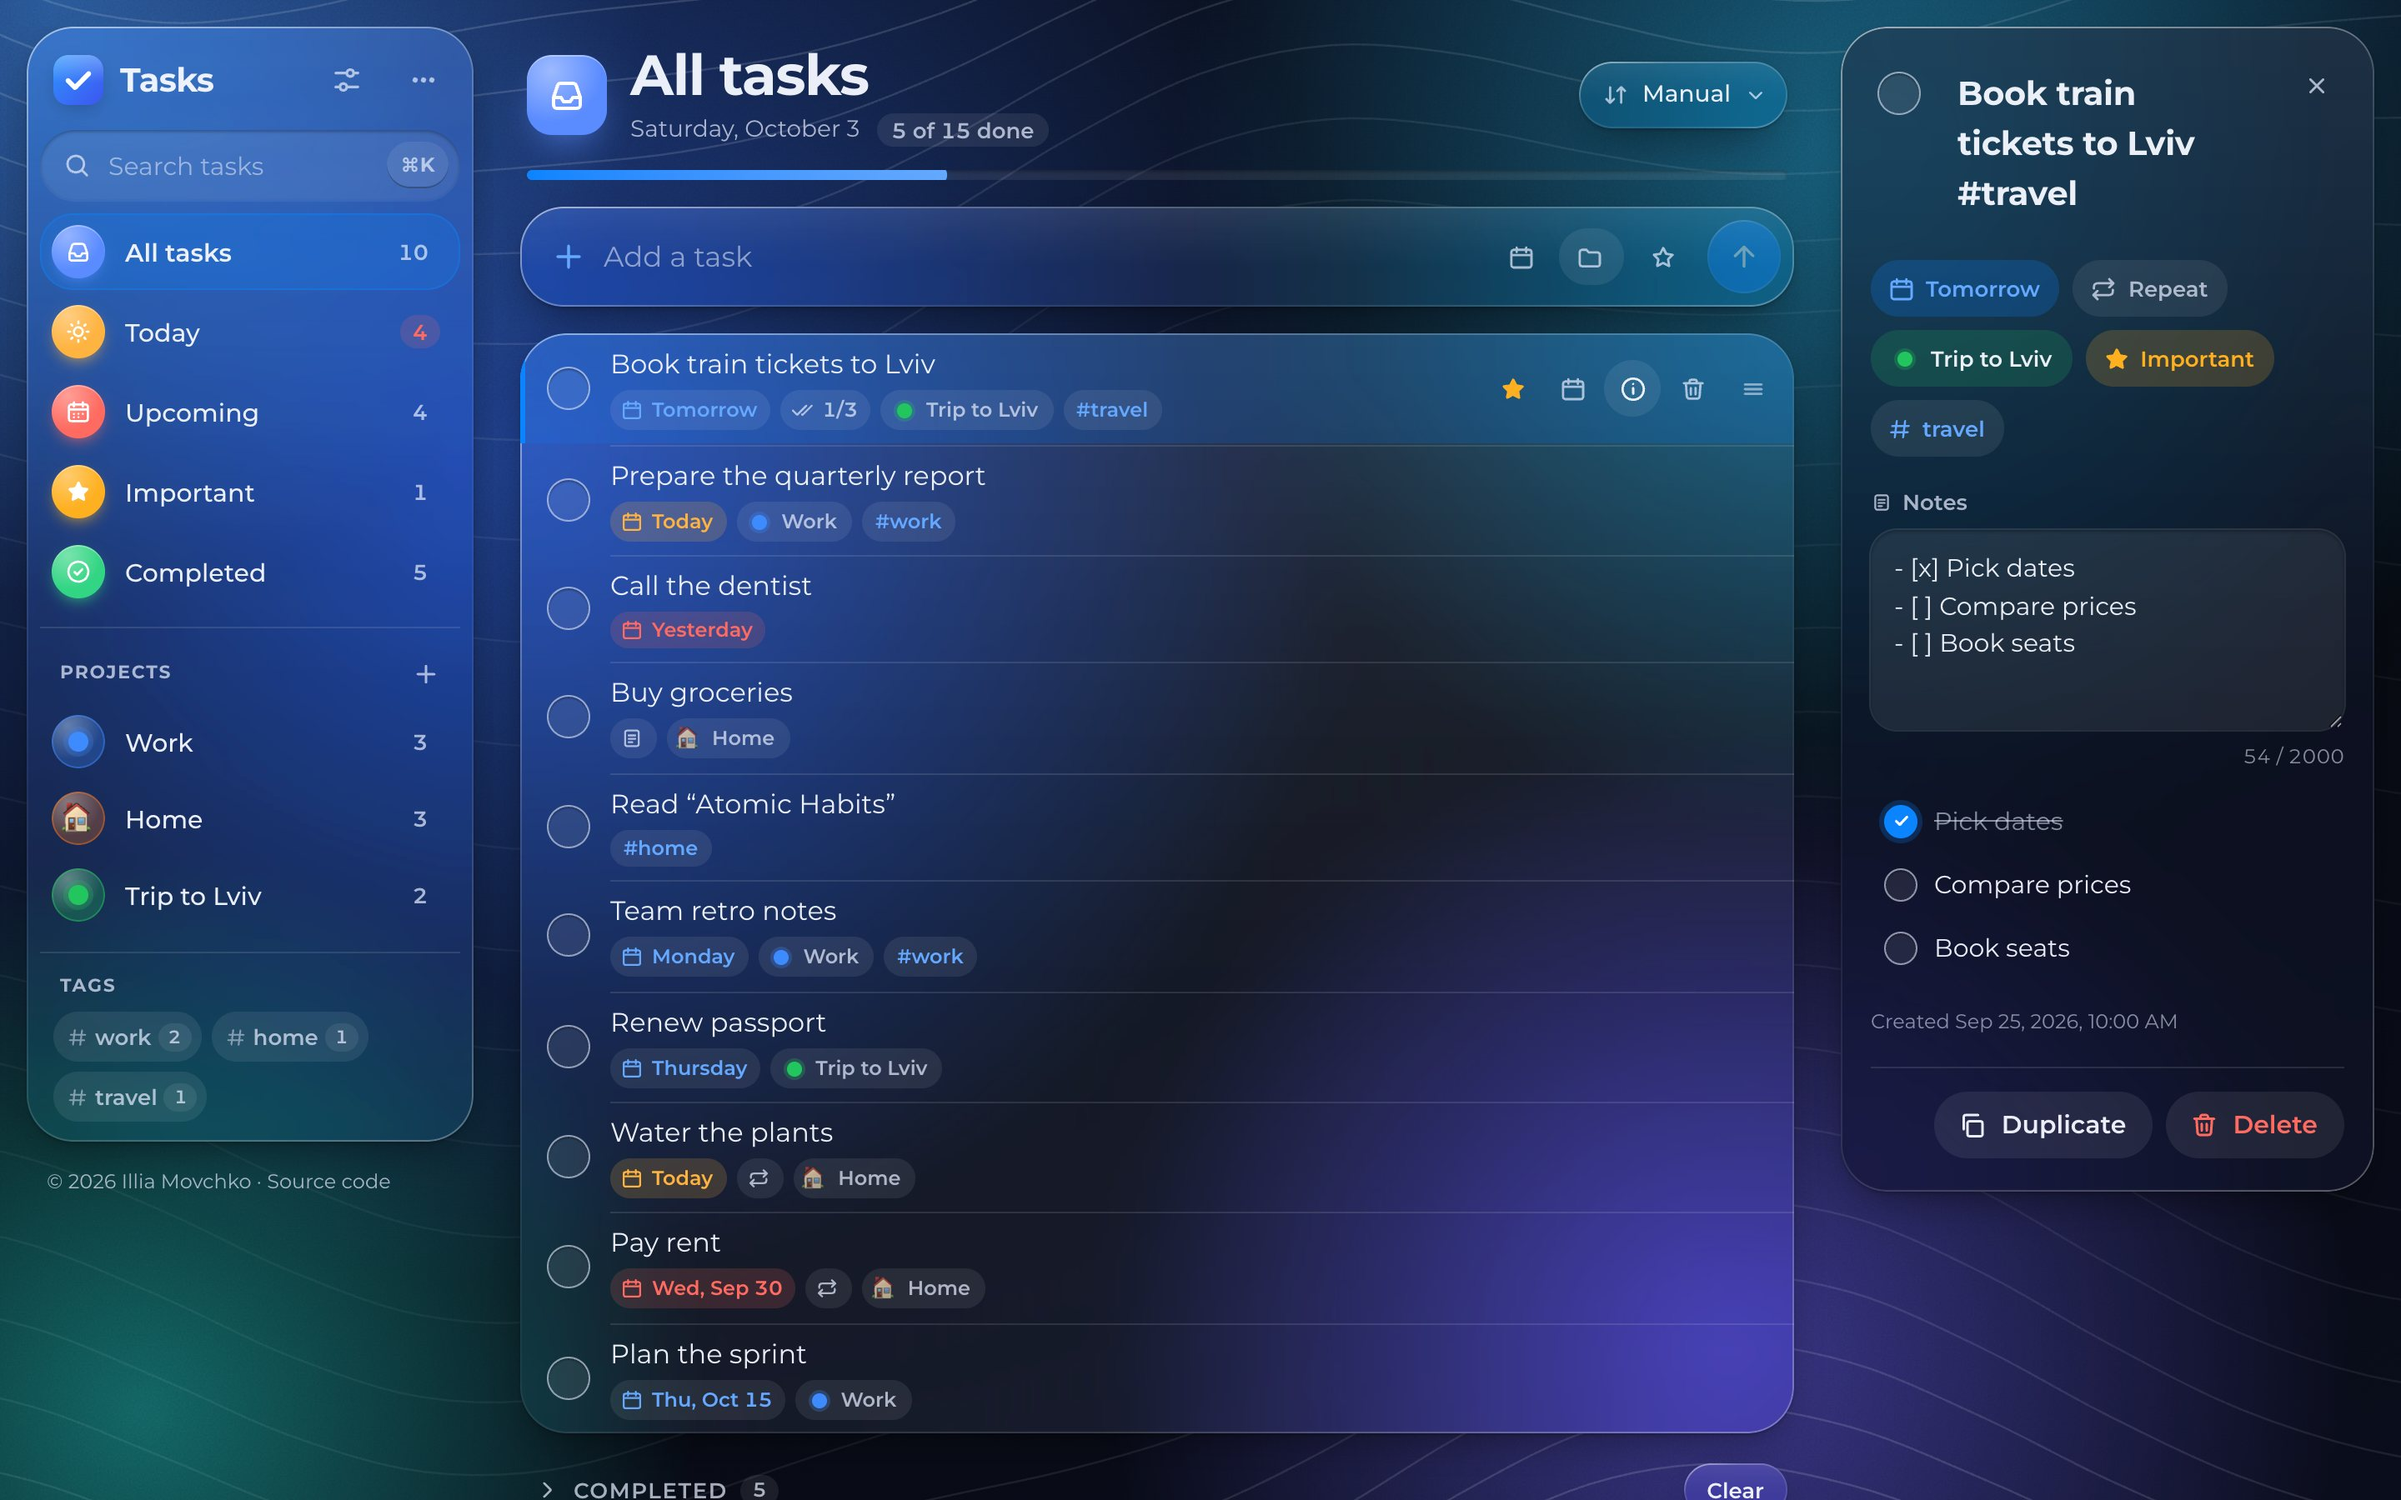
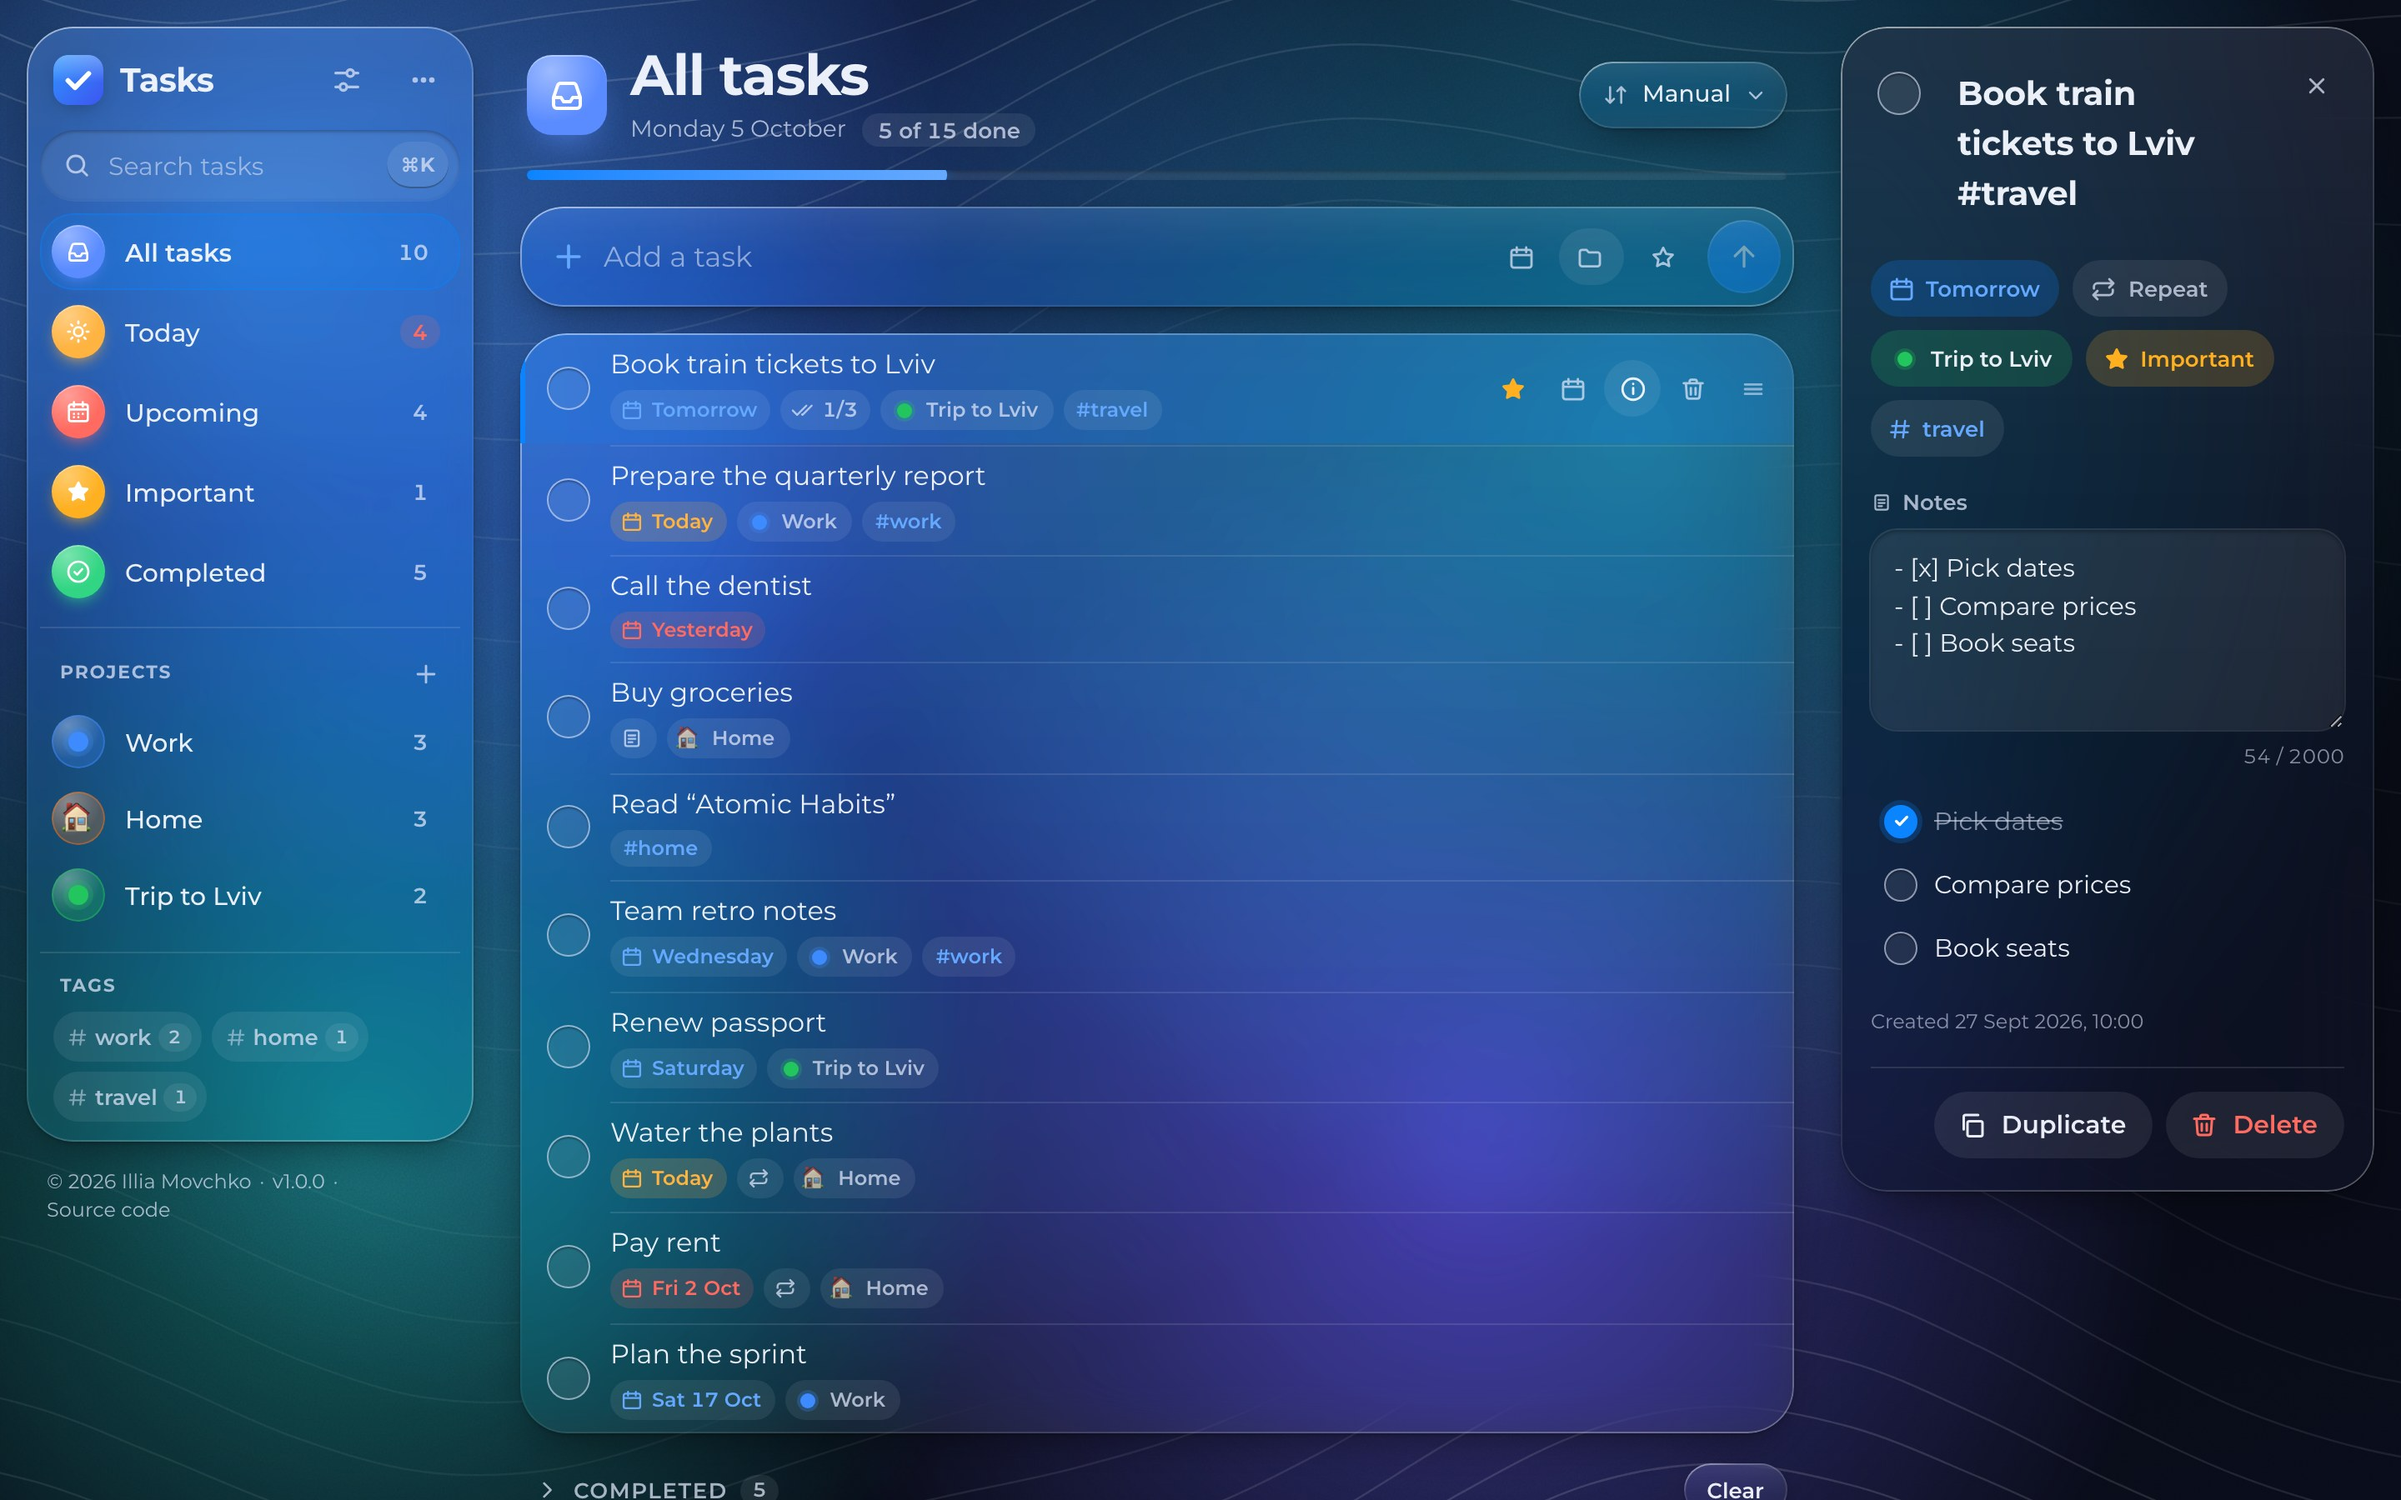
style: update credits section layout and improve text alignment in Sidebar

diff --git a/e2e/languages.spec.ts b/e2e/languages.spec.ts
@@ -35,7 +35,10 @@ test("switches the language in the settings and remembers it", async ({ page }) 
   await expect(page.locator("html")).toHaveAttribute("lang", "pl");
   await page.getByRole("dialog", { name: "Ustawienia" }).getByRole("button", { name: "Gotowe" }).click();
   await expect(page.getByRole("dialog", { name: "Ustawienia" })).toBeHidden();
-  await page.waitForLoadState("networkidle");
+  await page.waitForFunction(() => {
+    const state: unknown = history.state;
+    return typeof state !== "object" || state === null || !("todoOverlay" in state);
+  });
 
   await page.reload();
   await expect(page.locator("html")).toHaveAttribute("lang", "pl");

diff --git a/src/widgets/Sidebar/Sidebar.tsx b/src/widgets/Sidebar/Sidebar.tsx
@@ -26,12 +26,14 @@ const Credits = () => {
 
   return (
     <footer className={styles.credits}>
-      © {today.slice(0, 4)} {SITE.author.name}
-      <span aria-hidden="true"> · </span>
+      <span>
+        © {today.slice(0, 4)} {SITE.author.name}
+      </span>
+      <span aria-hidden="true">·</span>
       <a className={styles.link} href={SITE.changelog} target="_blank" rel="noreferrer">
         v{SITE.version}
       </a>
-      <span aria-hidden="true"> · </span>
+      <span aria-hidden="true">·</span>
       <a className={styles.link} href={SITE.repository} target="_blank" rel="noreferrer">
         {t("credits.source")}
       </a>

diff --git a/src/widgets/Sidebar/Sidebar.module.scss b/src/widgets/Sidebar/Sidebar.module.scss
@@ -52,12 +52,16 @@
 }
 
 .credits {
+  display: flex;
+  flex-wrap: wrap;
+  gap: 0 0.4em;
   padding-inline: 12px;
   font-size: 0.75rem;
   color: var(--color-text-secondary);
+  white-space: nowrap;
 
   @media (max-width: 899px) {
-    text-align: center;
+    justify-content: center;
   }
 }
 
